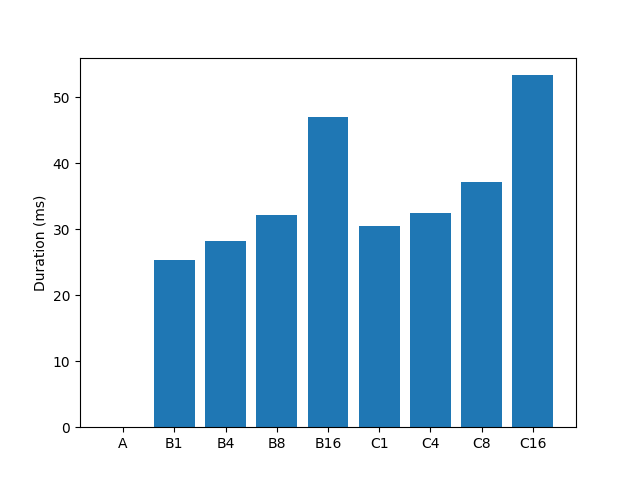
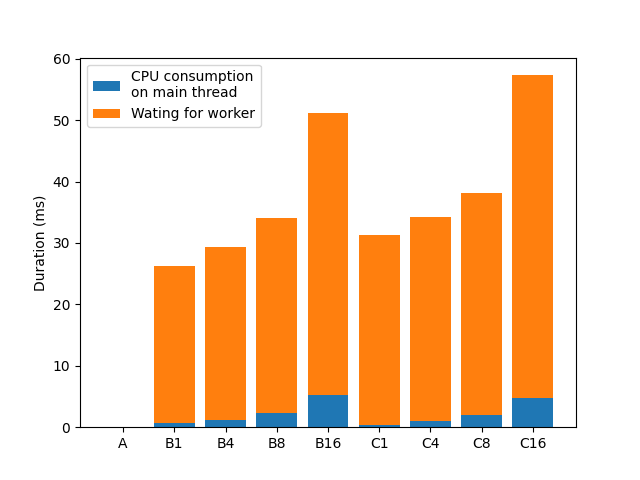
feat: measure how much time consumed on the main thread for init

diff --git a/bench_results/gen_graph.py b/bench_results/gen_graph.py
@@ -1,13 +1,25 @@
 import matplotlib.pyplot as plt
+import numpy as np
 
 def gen_init_graph():
   fig, ax = plt.subplots()
 
   types = ['A', 'B1', 'B4', 'B8', 'B16', 'C1', 'C4', 'C8', 'C16']
-  duration = [0.012, 25.351, 28.181, 32.109, 47.013, 30.457, 32.395, 37.080, 53.334]
+  duration = [0.013, 26.207, 29.304, 34.062, 51.233, 31.253, 34.196, 38.116, 57.307]
+  workerDuration = [0, 25.566, 28.197, 31.764, 46.026, 30.820, 33.201, 36.142, 52.613]
 
-  ax.bar(types, duration)
+  weight_counts = {
+    "CPU consumption\non main thread": np.array(duration) - np.array(workerDuration),
+    "Wating for worker": workerDuration,
+  }
+
+  bottom = np.zeros(len(types))
+  for label, weight_count in weight_counts.items():
+    ax.bar(types, weight_count, label=label, bottom=bottom)
+    bottom += weight_count
+
   ax.set_ylabel('Duration (ms)')
+  ax.legend()
   fig.savefig("./output/init.png")
 
 def gen_run_graph1():

diff --git a/benchmark.md b/benchmark.md
@@ -30,7 +30,7 @@ The way I propose. Communicates directly between native binary and worker_thread
 ### Initialization duration
 ![](./bench_results/output/init.png)
 
-Initializing the workers takes up to 60ms. If we can get more reduction than 60ms, then it's worth to run some plugins in worker threads. However, 60 ms is a negligible amount of time for a project of a certain size.
+Initializing the workers takes up to 60ms. Most of the time is waiting for the worker to start and other tasks can be executed during that. The cpu time consumed on the main thread side is up to 6ms and that is negligible amount of time. So it's worth to run some plugins in worker threads.
 
 ### Time taken to call the plugin's hook from rust
 #### Overhead of calling a hook from multiple workers
@@ -60,15 +60,23 @@ In conclusion, the direct implementation reduces the overhead of calling a hook 
 
 ```
 initialize:
-  main thread: 0.012ms
-  indirect (worker count: 1): 25.351ms
-  indirect (worker count: 4): 28.181ms
-  indirect (worker count: 8): 32.109ms
-  indirect (worker count: 16): 47.013ms
-  direct (worker count: 1): 30.457ms
-  direct (worker count: 4): 32.395ms
-  direct (worker count: 8): 37.080ms
-  direct (worker count: 16): 53.334ms
+  main thread: 0.013ms
+  indirect (worker count: 1): 26.207ms
+    worker wait: 25.566ms
+  indirect (worker count: 4): 29.304ms
+    worker wait: 28.197ms
+  indirect (worker count: 8): 34.062ms
+    worker wait: 31.764ms
+  indirect (worker count: 16): 51.233ms
+    worker wait: 46.026ms
+  direct (worker count: 1): 31.253ms
+    worker wait: 30.820ms
+  direct (worker count: 4): 34.196ms
+    worker wait: 33.201ms
+  direct (worker count: 8): 38.116ms
+    worker wait: 36.142ms
+  direct (worker count: 16): 57.307ms
+    worker wait: 52.613ms
 run (consumeDuration: 0, count: 1000, idLength: 30):
   main: 7.471ms
   indirect (worker count: 1): 103.358ms
